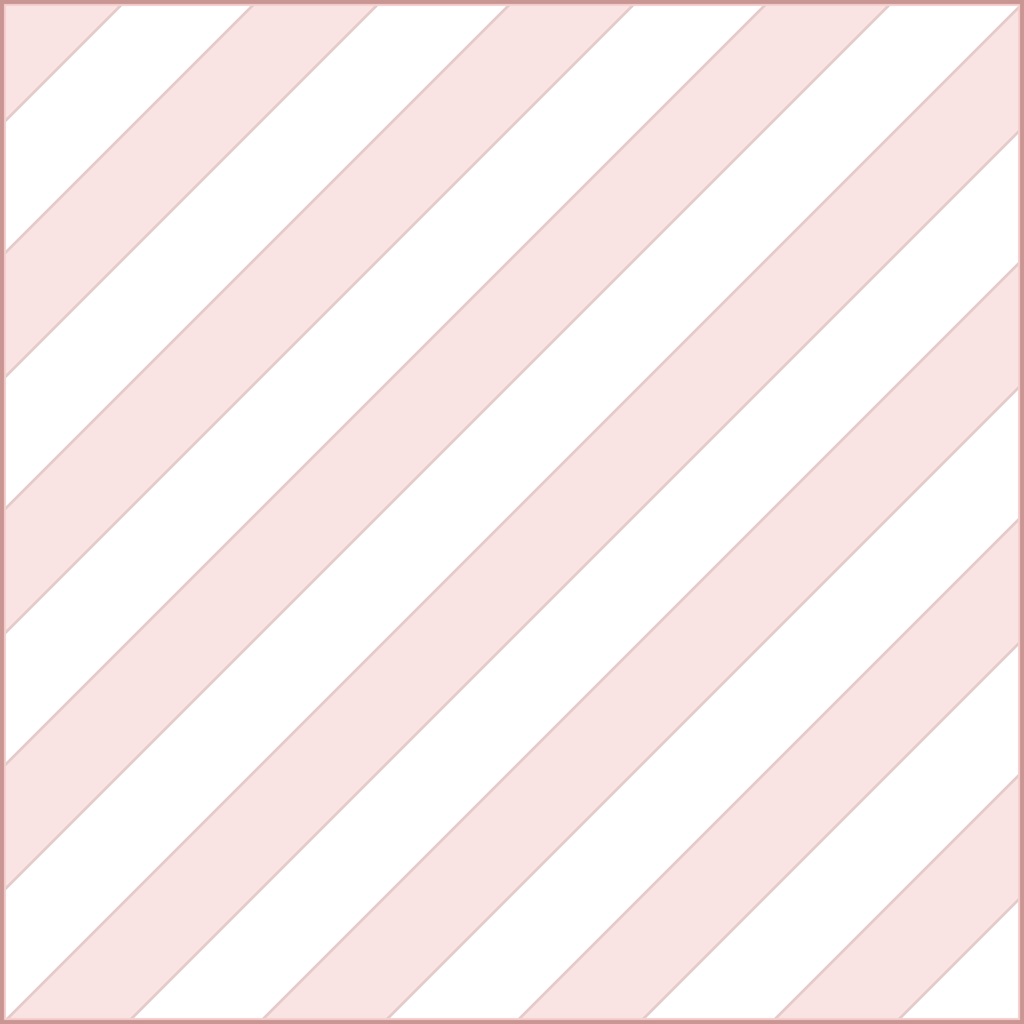
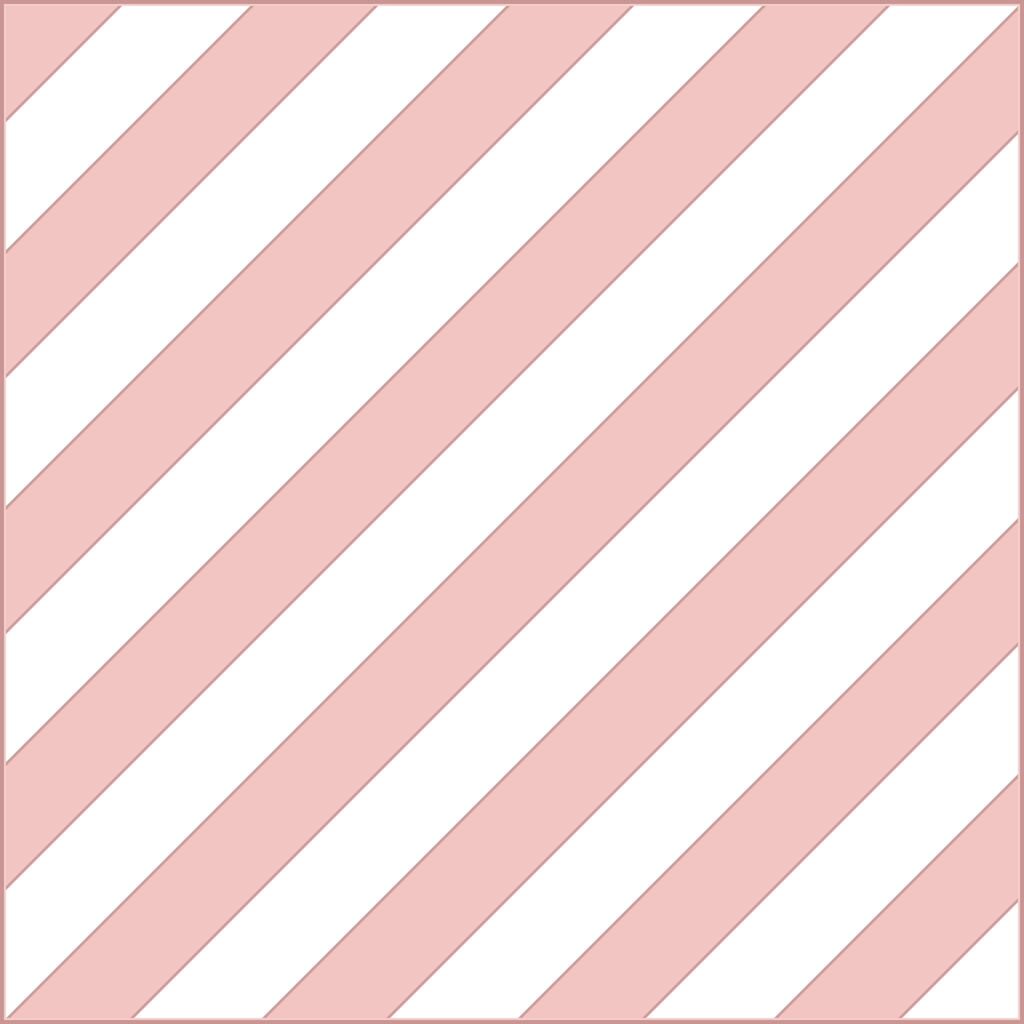
overlays: rampart was cut too far to see
Rampart is the only state that reads A's ribbon pair directly -- wilderness
and trail override both -- so when ribbon went 64 -> 128 and every state's
alpha was halved to pay for the doubled coverage, rampart took that
discount on top of already being the faintest rung. It landed at mean alpha
19 and playtest could not tell the overlay was there at all, in map view or
in the world.

Ribbon pair 58/33 -> 110/72, which puts rampart at mean alpha 38.7. The
ladder now reads 67 / 48 / 39 for wilderness / trail / rampart, so it still
descends -- being the quietest marked rung still means being visible.

diff --git a/tools/gen_overlays.py b/tools/gen_overlays.py
@@ -71,15 +71,19 @@ INNER = 2
 # report: "as if anti-aliasing isn't happening" — it wasn't).
 SS = 4
 
-# Base alphas at full strength (wilderness). The ribbon pair is halved from
-# what it was at ribbon 64, because ribbon 128 covers twice the area -- see
-# RIBBON. Only rampart reads these two directly; wilderness and trail
-# override both below.
+# Base alphas at full strength (wilderness). Only RAMPART reads the ribbon
+# pair directly -- wilderness and trail override both below -- so those two
+# numbers are effectively rampart's dial, and they are NOT halved the way
+# the other states were when ribbon went 64 -> 128. Halving them was a
+# mistake: rampart is already the faintest rung, and taking the
+# coverage-doubling discount on top of that put it at mean alpha 19, which
+# playtest could not see in either view. Being the quietest rung still
+# means being visible.
 A = {
     "border": 120,
     "inner": 60,
-    "ribbon_edge": 58,
-    "ribbon_core": 33,
+    "ribbon_edge": 110,
+    "ribbon_core": 72,
     "wash": 12,
 }
 
@@ -114,9 +118,9 @@ def darken(c, f=0.66):
 # sharing everything else. The weights encode the ladder: the more a rung
 # forbids, the louder it argues.
 #
-#   wilderness  ~half        a hard no, unmissable at any zoom
-#   trail       ~half        visible over any terrain, still see-through
-#   rampart     base (~1/3)  the quietest marked rung, one step from Deed
+#   wilderness  mean a 67   a hard no, unmissable at any zoom
+#   trail       mean a 48    visible over any terrain, still see-through
+#   rampart     mean a 39    the quietest marked rung, one step from Deed
 #   deed        —            no blocker, no overlay: clear ground is owned
 #
 # Trail's boost is a playtest call: at the base alphas its orange read as
